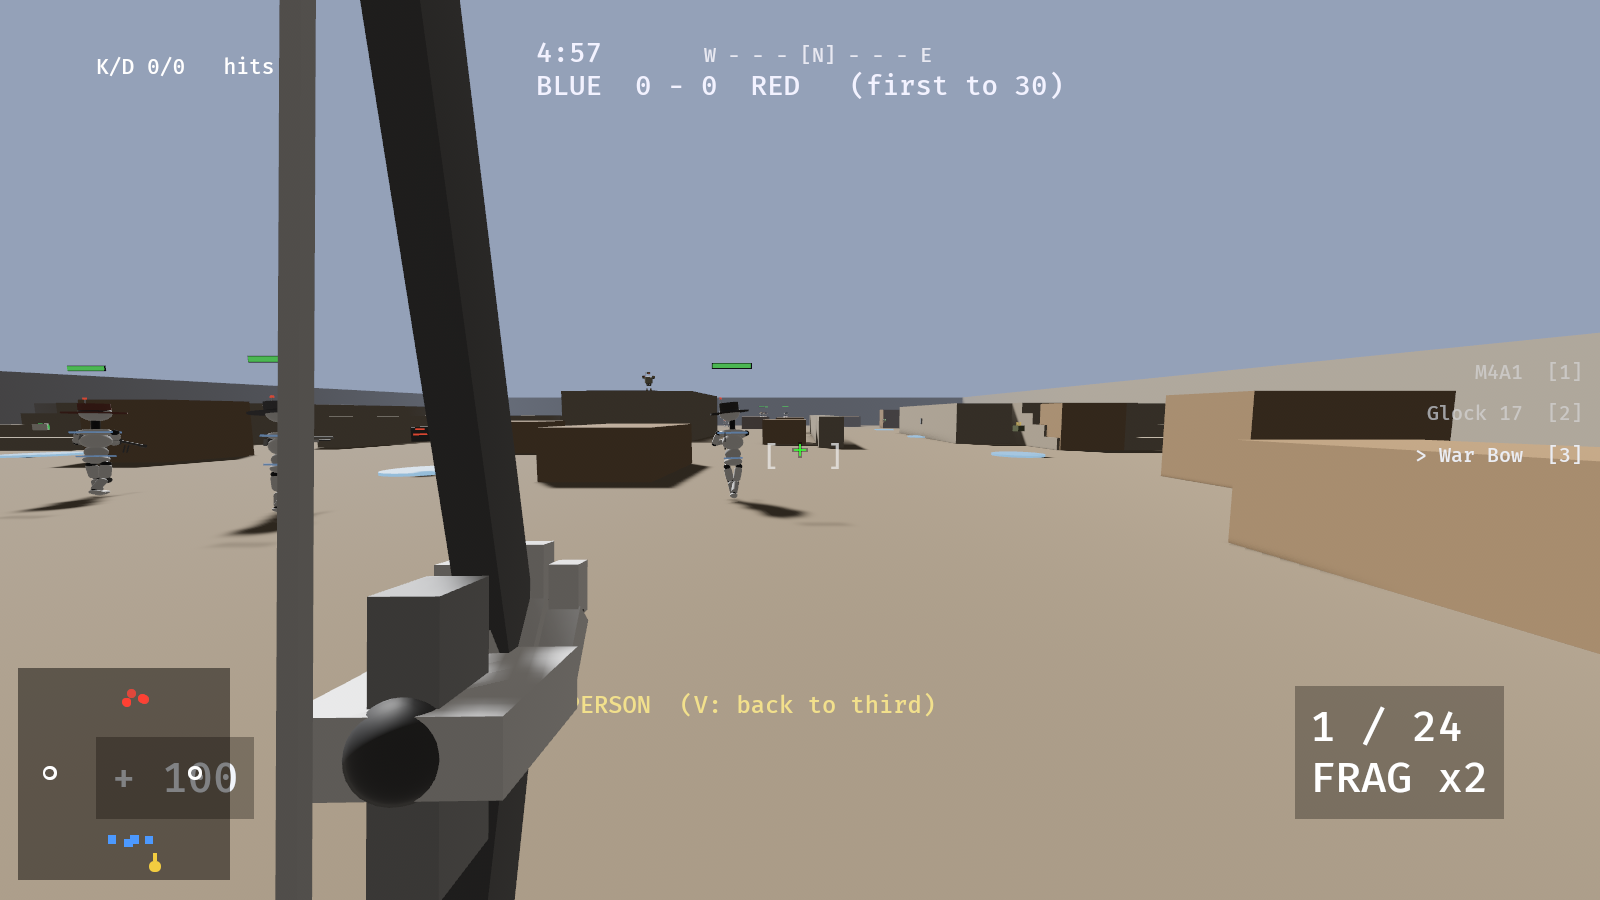
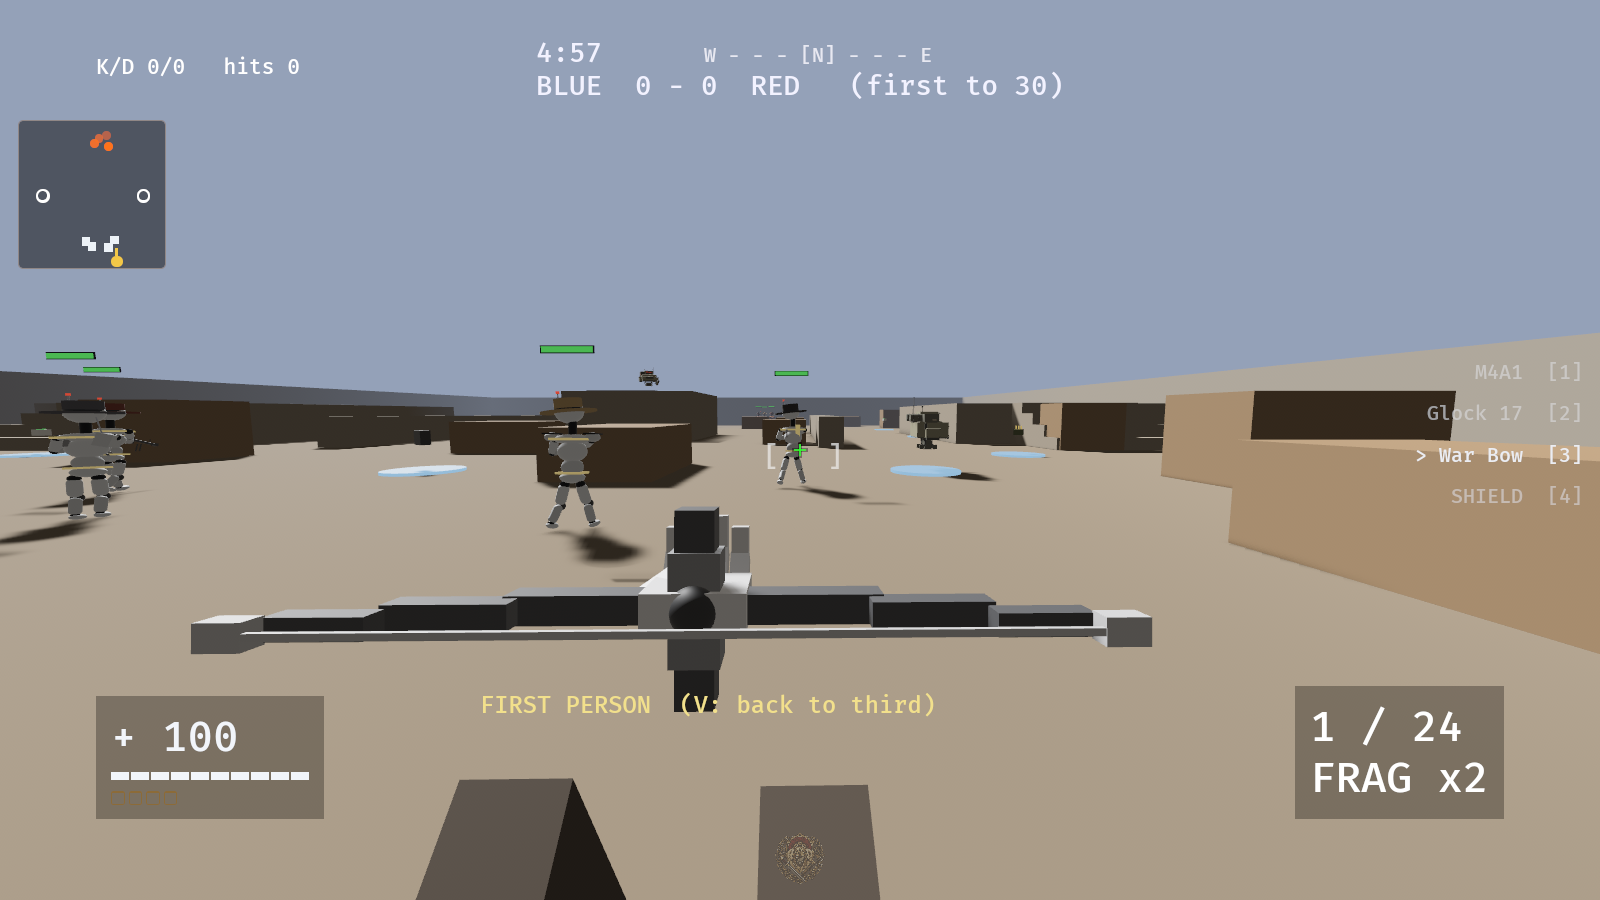
The war bow is held horizontal, and it curves
It was two straight blocks stacked vertically - which read as a pole
rather than a bow, and put the upper limb straight through the shooter's
sight line.

Limbs now run left and right, and each is built from three shortening
segments that step backward in z: a real recurve profile rather than one
tilted slab, which is what makes the shape read as SPRUNG instead of
rigid. Riser gets a grip swell above and below the shelf so it is not a
plain brick, and the ADS pass adds an arrow shelf and a sighting mark.

The riser stays on the origin, so `weapon_hand_specs`' grip socket and
the nock at the string's centre are both untouched by the reorientation -
the hand IK did not have to move.

Its carry offset did, though: the bounding shape turned ninety degrees,
so it is wide where it used to be tall, and at the old 0.36 m carry a
0.7 m span filled the bottom third of the screen. Pushed out and centred
the way a bow is actually held. The sight line is now clear, which was
the point of turning it in the first place.

diff --git a/engine/crates/jk_tdm/src/main.rs b/engine/crates/jk_tdm/src/main.rs
@@ -1962,7 +1962,13 @@ fn carry_offset(
 /// off-eye.
 fn vm_carry(wk: GunKind) -> (Vec3, f32) {
     match wk {
-        GunKind::Bow => (Vec3::new(-0.10, -0.16, -0.36), 0.0),
+        // §owner: the bow went HORIZONTAL, so its bounding shape turned
+        // ninety degrees - it is now wide where it used to be tall. At
+        // the old 0.36 m carry a 0.7 m span filled the bottom third of
+        // the screen. Pushed out and centred, the way a bow is actually
+        // held, and it now leaves the sight line clear rather than
+        // putting a limb through it.
+        GunKind::Bow => (Vec3::new(-0.02, -0.17, -0.66), 0.0),
         GunKind::Spear => (Vec3::new(0.15, -0.10, -0.28), -0.12),
         GunKind::Glock | GunKind::Deagle => (Vec3::new(0.10, -0.125, -0.30), 0.0),
         GunKind::M249 => (Vec3::new(0.13, -0.14, -0.42), 0.0),
@@ -5490,15 +5496,54 @@ fn spawn_weapon_model(
             push_red_dot(&mut parts, 0.1265, 0.0, 0.098); // feed cover 0.098
         }
         GunKind::Bow => {
-            // hard-surface war bow: dark blocky limbs, mid riser, light tips
-            parts.push(wp(false, Tone::Dark, (0.0, 0.24, 0.03), -0.30, (0.028, 0.46, 0.045)));
-            parts.push(wp(false, Tone::Dark, (0.0, -0.24, 0.03), 0.30, (0.028, 0.46, 0.045)));
-            parts.push(wp(false, Tone::Mid, (0.0, 0.0, 0.01), 0.0, (0.035, 0.15, 0.055)));
-            parts.push(wp(false, Tone::Light, (0.0, 0.455, -0.04), -0.30, (0.032, 0.05, 0.05)));
-            parts.push(wp(false, Tone::Light, (0.0, -0.455, -0.04), 0.30, (0.032, 0.05, 0.05)));
-            parts.push(wp(false, Tone::Light, (0.0, 0.0, -0.09), 0.0, (0.008, 0.82, 0.008)));
-            parts.push(wd(false, Tone::Light, (0.0, 0.10, 0.02), 0.0, (0.038, 0.02, 0.058)));
-            parts.push(wd(false, Tone::Light, (0.0, -0.10, 0.02), 0.0, (0.038, 0.02, 0.058)));
+            // §owner: the war bow is held HORIZONTAL, and it CURVES.
+            //
+            // It used to be two straight blocks stacked vertically, which
+            // read as a pole rather than a bow and put the upper limb
+            // through the shooter's sight line. Limbs now run left and
+            // right, and each is built from three shortening segments
+            // that step backward in z - a real recurve profile rather
+            // than one tilted slab, which is what makes the shape read as
+            // SPRUNG rather than rigid.
+            //
+            // The riser stays at the origin so `weapon_hand_specs`' grip
+            // socket (0, 0, 0.03) and the nock at the string's centre are
+            // both untouched by the reorientation.
+            parts.push(wp(false, Tone::Mid, (0.0, 0.0, 0.012), 0.0, (0.052, 0.115, 0.058)));
+            // grip swell above and below the shelf, so the riser is not a
+            // plain brick
+            parts.push(wp(false, Tone::Dark, (0.0, 0.075, 0.012), 0.0, (0.040, 0.05, 0.050)));
+            parts.push(wp(false, Tone::Dark, (0.0, -0.075, 0.012), 0.0, (0.040, 0.05, 0.050)));
+            for side in [-1.0_f32, 1.0] {
+                // three segments per limb: each shorter, thinner, and
+                // further back than the last - the curve
+                for (dx, dz, w, h, d) in [
+                    (0.115, 0.000, 0.150, 0.030, 0.044),
+                    (0.235, -0.030, 0.120, 0.026, 0.038),
+                    (0.330, -0.072, 0.090, 0.022, 0.032),
+                ] {
+                    parts.push(wp(
+                        false,
+                        Tone::Dark,
+                        (side * dx, 0.0, 0.012 + dz),
+                        0.0,
+                        (w, h, d),
+                    ));
+                }
+                // the light tip / string nock at the end of the recurve
+                parts.push(wp(
+                    false,
+                    Tone::Light,
+                    (side * 0.392, 0.0, -0.088),
+                    0.0,
+                    (0.040, 0.026, 0.028),
+                ));
+            }
+            // the string, tip to tip across the back
+            parts.push(wp(false, Tone::Light, (0.0, 0.0, -0.098), 0.0, (0.78, 0.007, 0.007)));
+            // ADS-only: the arrow shelf and a sighting mark on the riser
+            parts.push(wd(false, Tone::Light, (0.028, 0.030, 0.030), 0.0, (0.030, 0.010, 0.062)));
+            parts.push(wd(false, Tone::Reticle, (0.0, 0.052, 0.044), 0.0, (0.006, 0.006, 0.006)));
         }
         GunKind::Spear => {
             // war spear: dark shaft, light flat blade, black collar + butt
